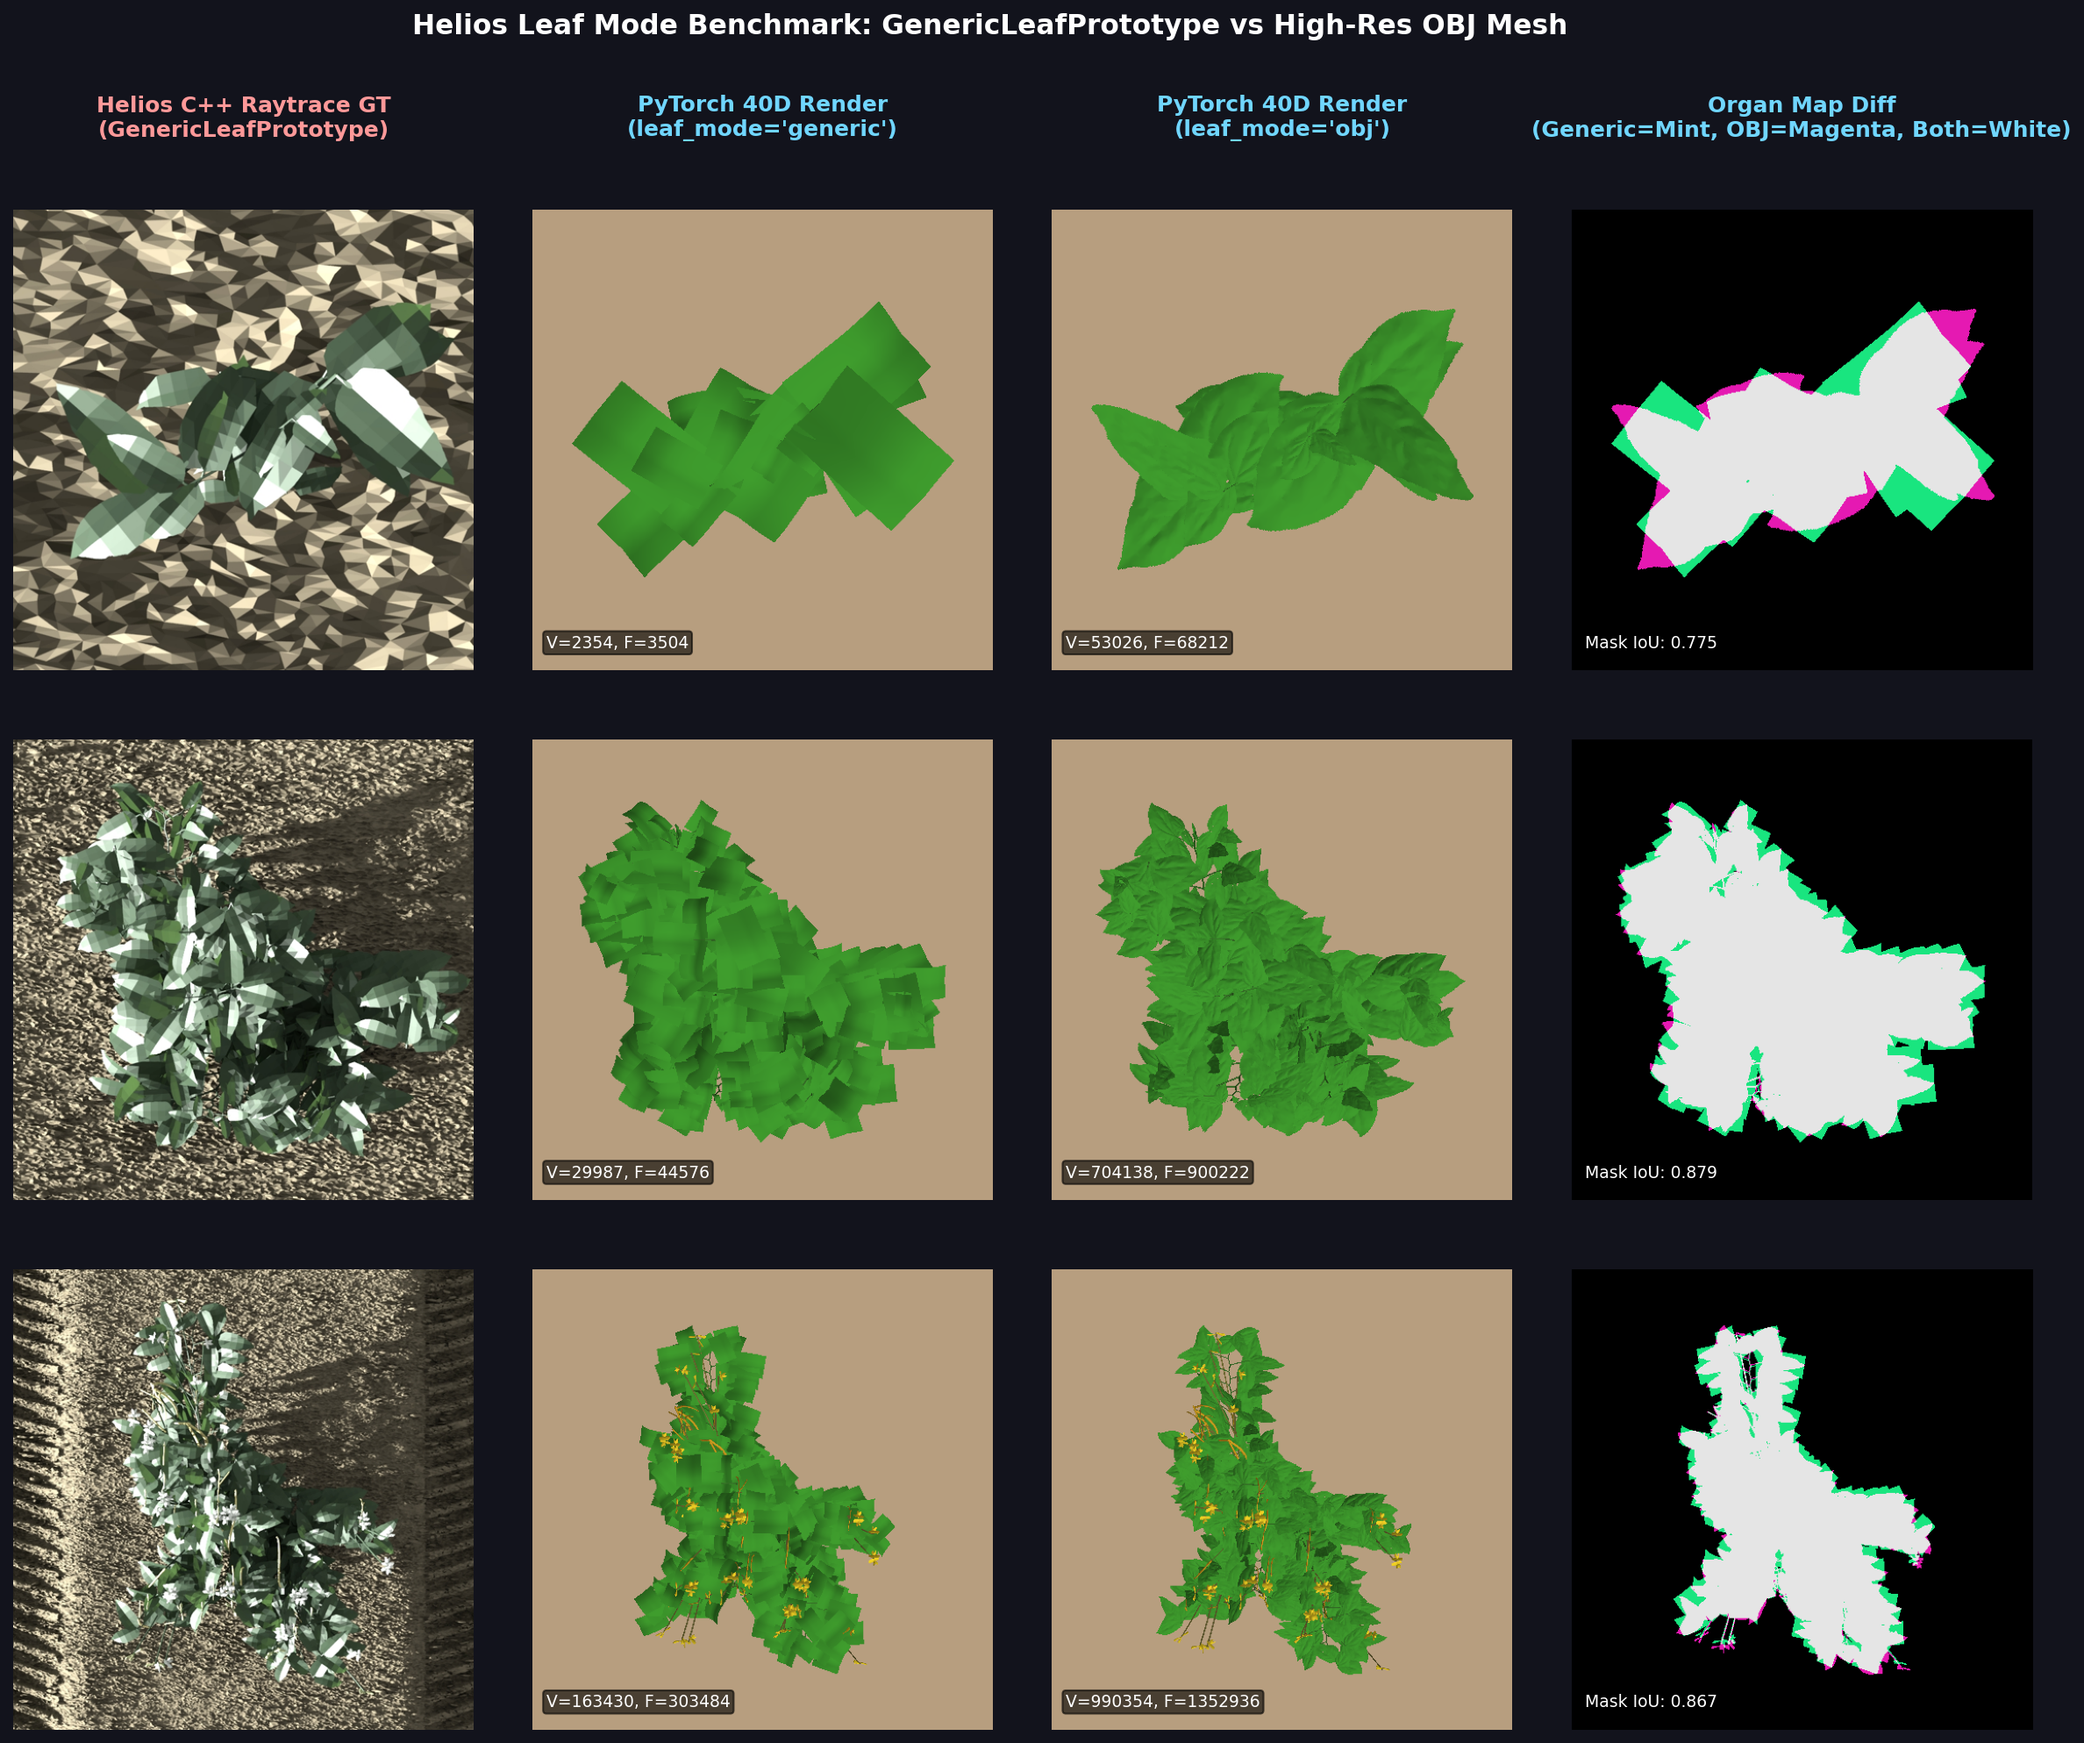
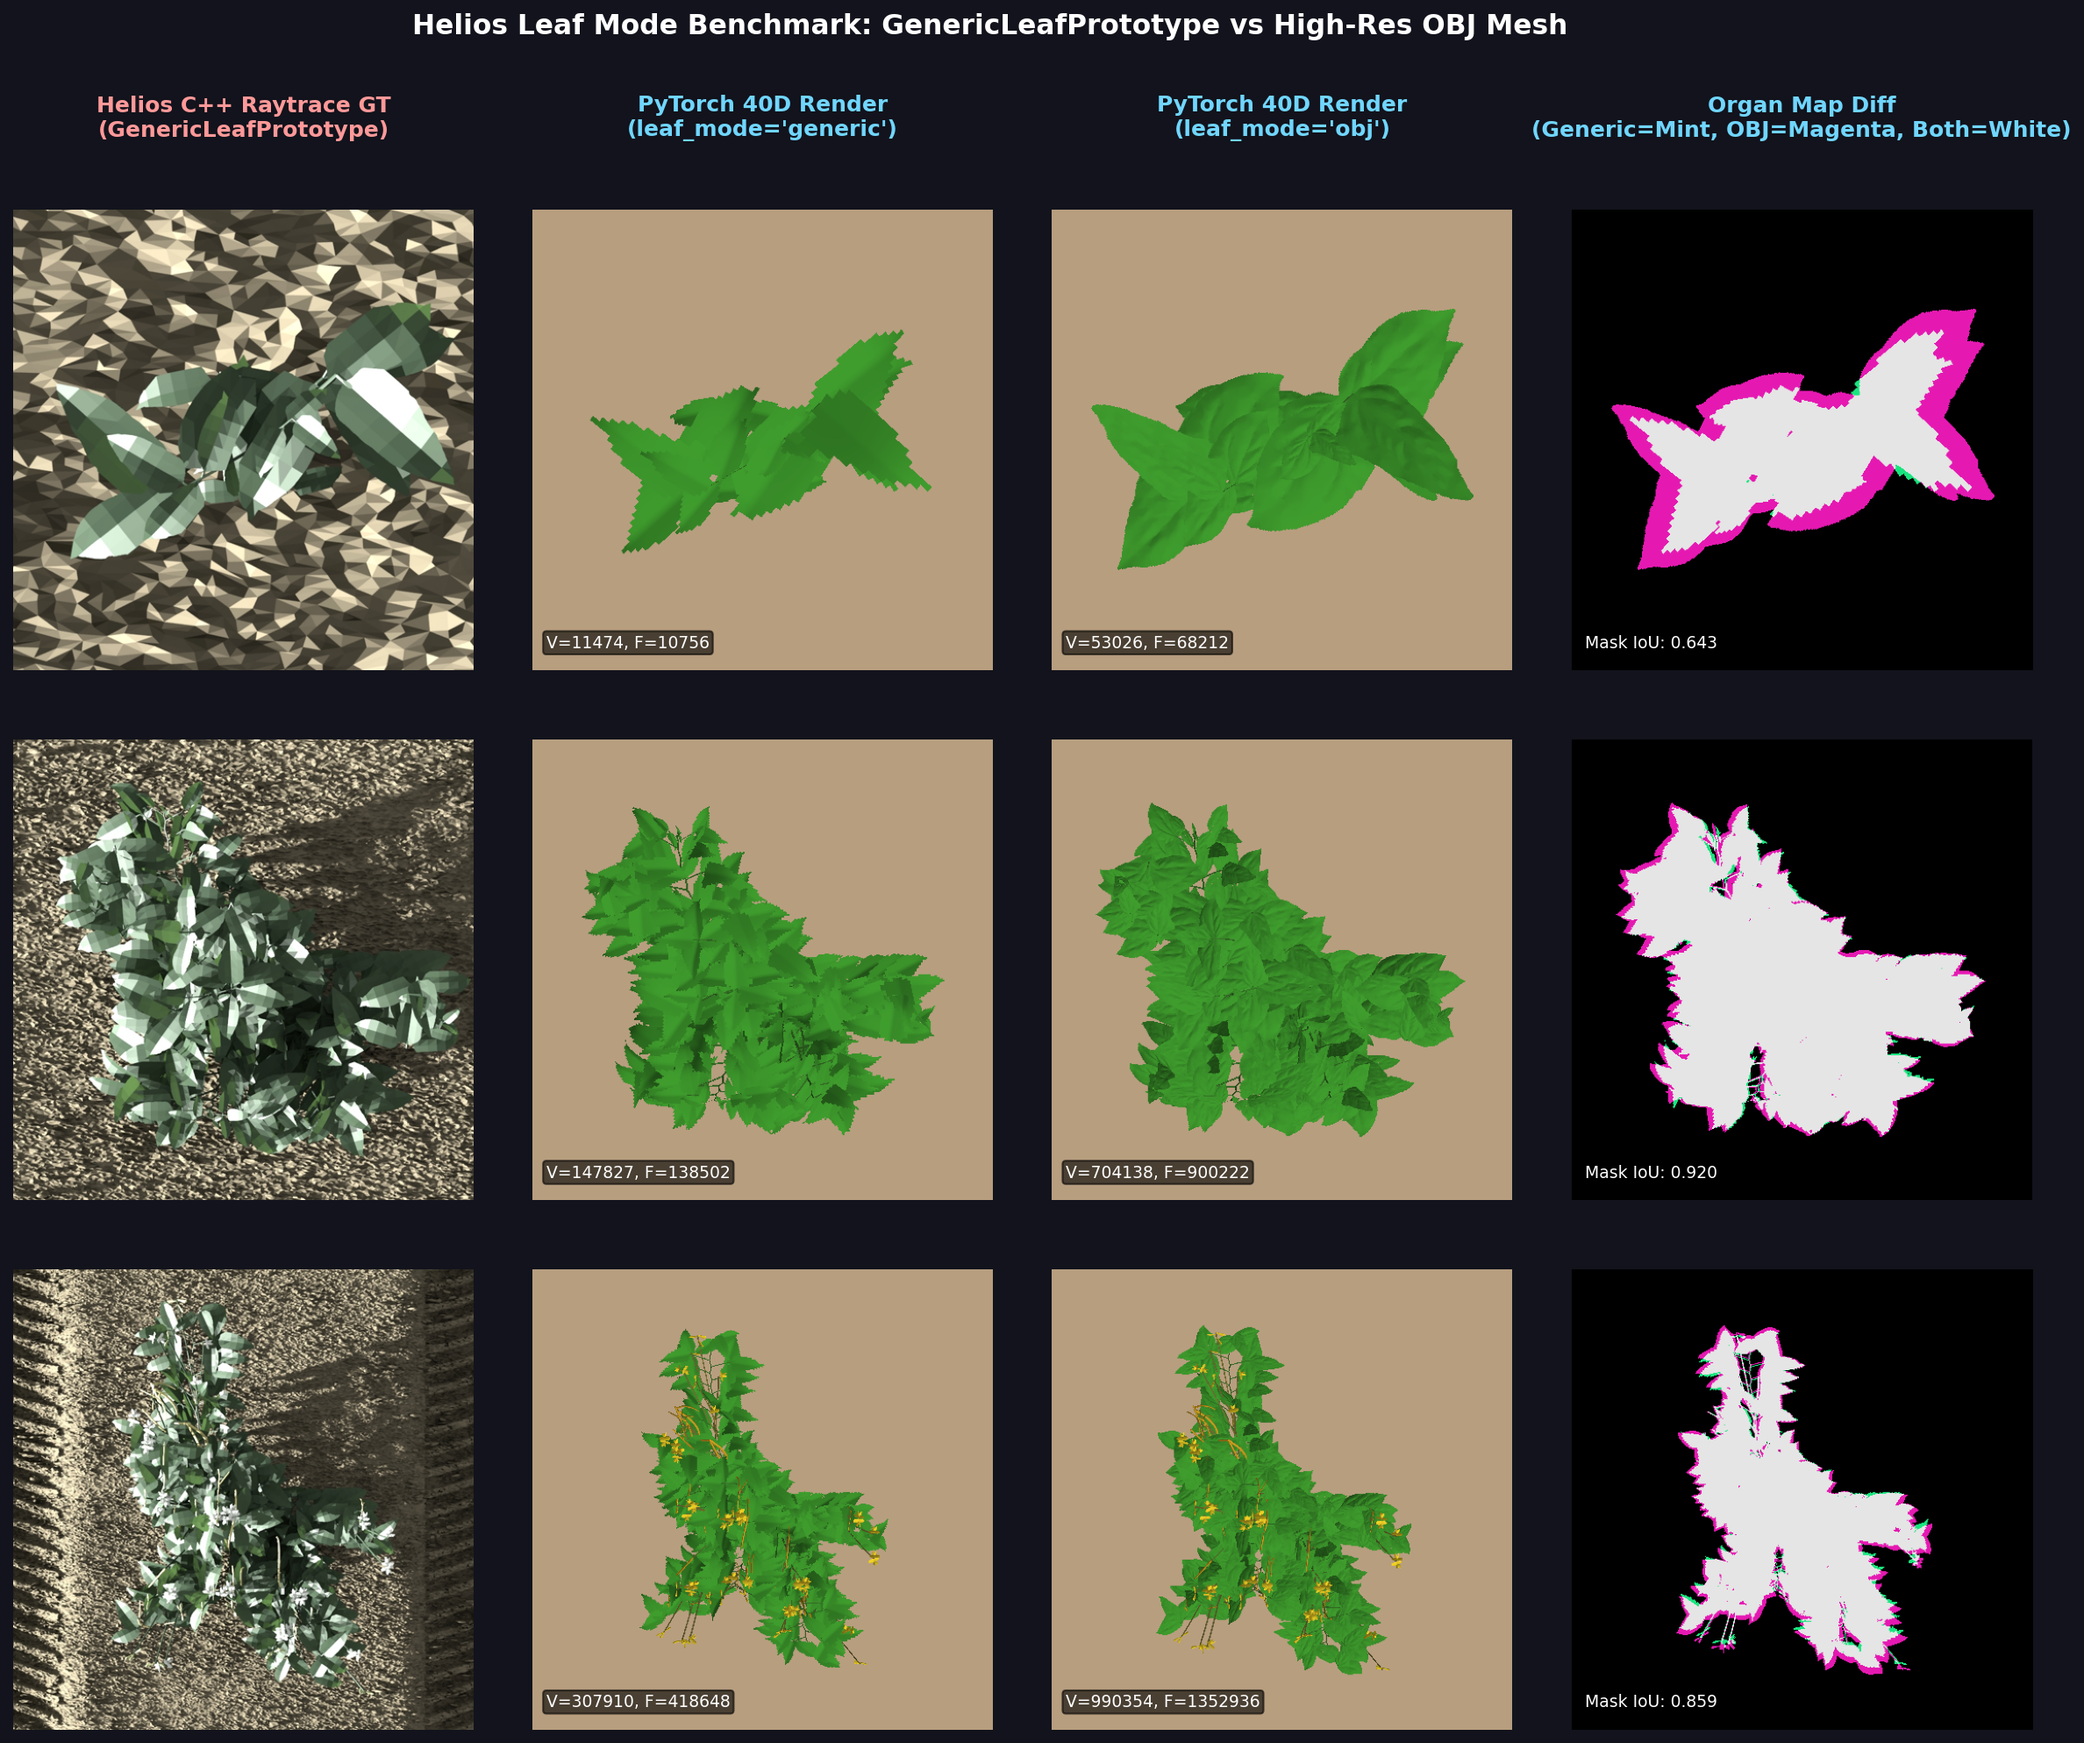
feat(renderer): implement alpha-masked GenericLeafPrototype matching Helios Radiation raytracer contour

diff --git a/diffusion_based/models/helios_pytorch_geometry.py b/diffusion_based/models/helios_pytorch_geometry.py
@@ -231,11 +231,18 @@ def generate_sorghum_leaf_mesh_torch(
     return verts, faces_t
 
 
+TEXTURE_DIR = os.path.abspath(
+    os.path.join(os.path.dirname(__file__), "..", "..", "Digital-Crops", "libs", "Helios", "plugins", "plantarchitecture", "assets", "textures")
+)
+
+
 class HeliosAssetManager:
-    """Loads and caches Helios OBJ assets for PyTorch rendering."""
-    def __init__(self, asset_dir: str = ASSET_DIR):
+    """Loads and caches Helios OBJ assets and alpha-masked GenericLeaf meshes for PyTorch rendering."""
+    def __init__(self, asset_dir: str = ASSET_DIR, texture_dir: str = TEXTURE_DIR):
         self.asset_dir = asset_dir
+        self.texture_dir = texture_dir
         self.cache: Dict[str, Tuple[torch.Tensor, torch.Tensor]] = {}
+        self.generic_cache: Dict[str, Tuple[torch.Tensor, torch.Tensor]] = {}
 
     def get_mesh(self, name: str) -> Tuple[torch.Tensor, torch.Tensor]:
         if name not in self.cache:
@@ -245,6 +252,87 @@ class HeliosAssetManager:
             self.cache[name] = load_obj_file(path)
         v, f = self.cache[name]
         return v.clone(), f.clone()
+
+    def get_generic_leaf_mesh(
+        self,
+        texture_name: str,
+        Nx: int = 16,
+        Ny: int = 16,
+        aspect_ratio: float = 0.7,
+        midrib_fold_fraction: float = 0.2,
+        longitudinal_curvature: float = -0.2,
+        lateral_curvature: float = -0.4,
+        device: torch.device = torch.device('cpu')
+    ) -> Tuple[torch.Tensor, torch.Tensor]:
+        """Builds and caches Helios GenericLeafPrototype mesh with texture alpha-mask cutout."""
+        cache_key = f"{texture_name}_{Nx}_{Ny}_{aspect_ratio}_{midrib_fold_fraction}_{longitudinal_curvature}_{lateral_curvature}"
+        if cache_key not in self.generic_cache:
+            dx = 1.0 / float(Nx)
+            dy = aspect_ratio / float(Ny)
+
+            verts_grid = []
+            for j in range(Ny + 1):
+                row_verts = []
+                dtheta = 0.0
+                for i in range(Nx + 1):
+                    x = float(i) * dx
+                    y = float(j) * dy - 0.5 * aspect_ratio
+
+                    y_fold = math.cos(0.5 * midrib_fold_fraction * math.pi) * y
+                    z_fold = math.sin(0.5 * midrib_fold_fraction * math.pi) * abs(y)
+                    z_xcurve = longitudinal_curvature * (x ** 4)
+                    z_ycurve = lateral_curvature * ((y / aspect_ratio) ** 4)
+
+                    pt = [x, y_fold, z_fold + z_ycurve]
+                    if longitudinal_curvature != 0.0 and i > 0:
+                        dtheta -= math.atan(4.0 * longitudinal_curvature * (x ** 3) * dx)
+                        c, s = math.cos(dtheta), math.sin(dtheta)
+                        pt_x = pt[0] * c + pt[2] * s
+                        pt_z = -pt[0] * s + pt[2] * c
+                        pt = [pt_x, pt[1], pt_z]
+                    row_verts.append(pt)
+                verts_grid.append(row_verts)
+
+            verts_list = [pt for row in verts_grid for pt in row]
+            v_tensor = torch.tensor(verts_list, dtype=torch.float32)
+
+            tex_path = os.path.join(self.texture_dir, texture_name)
+            faces_list = []
+            if os.path.exists(tex_path):
+                from PIL import Image as PILImage
+                img = PILImage.open(tex_path)
+                alpha = np.array(img)[:, :, 3] / 255.0
+                H_tex, W_tex = alpha.shape
+
+                for j in range(Ny):
+                    for i in range(Nx):
+                        u_c = (i + 0.5) * dx
+                        v_c = (j + 0.5) * dy / aspect_ratio
+                        tx = max(0, min(W_tex - 1, int(u_c * (W_tex - 1))))
+                        ty = max(0, min(H_tex - 1, int((1.0 - v_c) * (H_tex - 1))))
+
+                        if alpha[ty, tx] > 0.35:
+                            idx0 = j * (Nx + 1) + i
+                            idx1 = j * (Nx + 1) + (i + 1)
+                            idx2 = (j + 1) * (Nx + 1) + (i + 1)
+                            idx3 = (j + 1) * (Nx + 1) + i
+                            faces_list.append([idx0, idx1, idx2])
+                            faces_list.append([idx0, idx2, idx3])
+            else:
+                for j in range(Ny):
+                    for i in range(Nx):
+                        idx0 = j * (Nx + 1) + i
+                        idx1 = j * (Nx + 1) + (i + 1)
+                        idx2 = (j + 1) * (Nx + 1) + (i + 1)
+                        idx3 = (j + 1) * (Nx + 1) + i
+                        faces_list.append([idx0, idx1, idx2])
+                        faces_list.append([idx0, idx2, idx3])
+
+            f_tensor = torch.tensor(faces_list, dtype=torch.int64)
+            self.generic_cache[cache_key] = (v_tensor, f_tensor)
+
+        v_cached, f_cached = self.generic_cache[cache_key]
+        return v_cached.clone().to(device), f_cached.clone().to(device)
 
 
 def rotr_x(angle_rad: torch.Tensor, device=torch.device('cpu')) -> torch.Tensor:
@@ -954,17 +1042,28 @@ class HeliosPlantGeometryBuilder:
                                     device=device
                                 )
                             elif eff_leaf_mode == "generic":
-                                # Exact Helios GenericLeafPrototype parametric mesh (Assets.cpp:45-160)
-                                v_lf_b, f_lf_b = generate_generic_leaf_mesh_torch(
-                                    scale=tot_scale,
+                                # Exact Helios GenericLeafPrototype with texture alpha mask cutout (matching Helios OptiX / Radiation raytracer)
+                                if num_leaves == 1:
+                                    tex_name = "CowpeaLeaf_unifoliate_centered.png"
+                                else:
+                                    if lf_i == 0:
+                                        tex_name = "CowpeaLeaf_left_centered.png"
+                                    elif lf_i == 1:
+                                        tex_name = "CowpeaLeaf_tip_centered.png"
+                                    else:
+                                        tex_name = "CowpeaLeaf_right_centered.png"
+
+                                v_lf_b, f_lf_b = self.asset_mgr.get_generic_leaf_mesh(
+                                    texture_name=tex_name,
+                                    Nx=16,
+                                    Ny=16,
                                     aspect_ratio=0.7,
                                     midrib_fold_fraction=0.2,
                                     longitudinal_curvature=-0.2,
                                     lateral_curvature=-0.4,
-                                    Nx=6,
-                                    Ny=6,
                                     device=device
                                 )
+                                v_lf_b = v_lf_b * tot_scale
                             else:
                                 if num_leaves == 1:
                                     obj_name = "CowpeaLeaf_unifoliate.obj"
